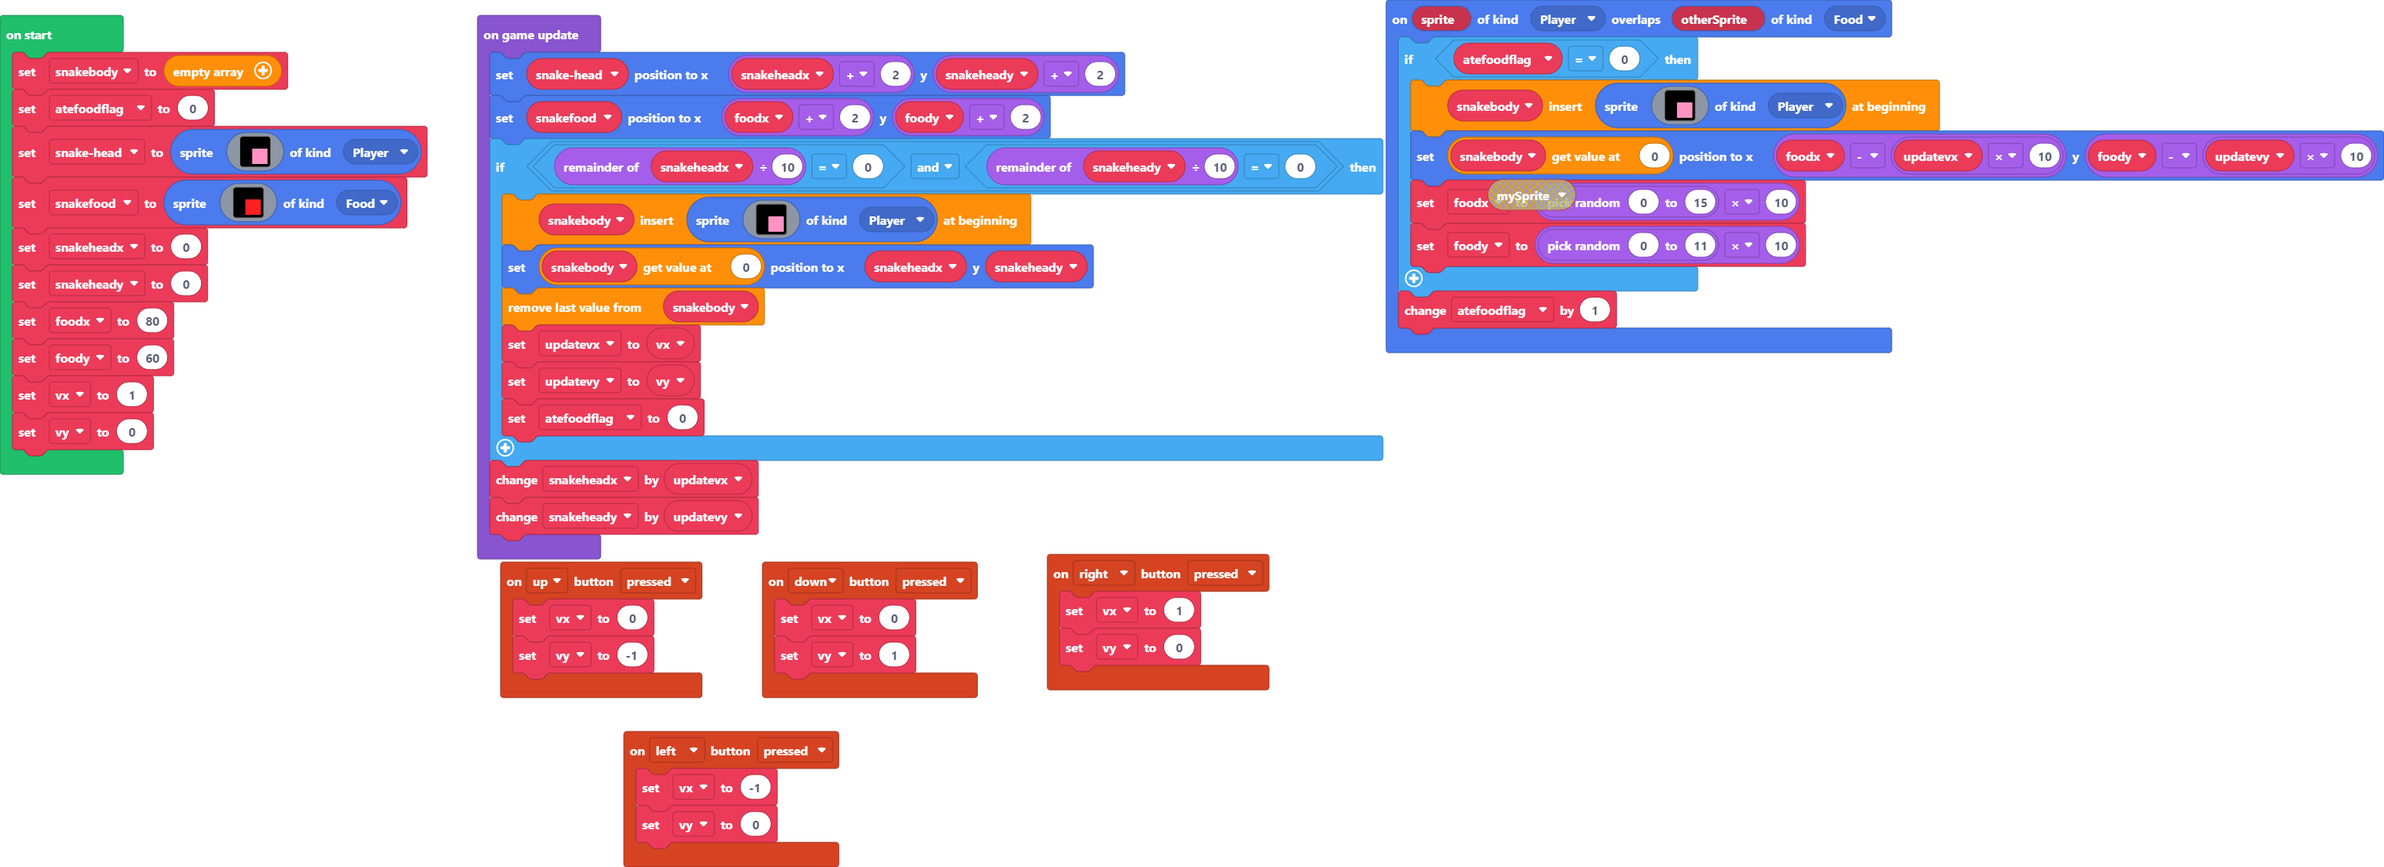
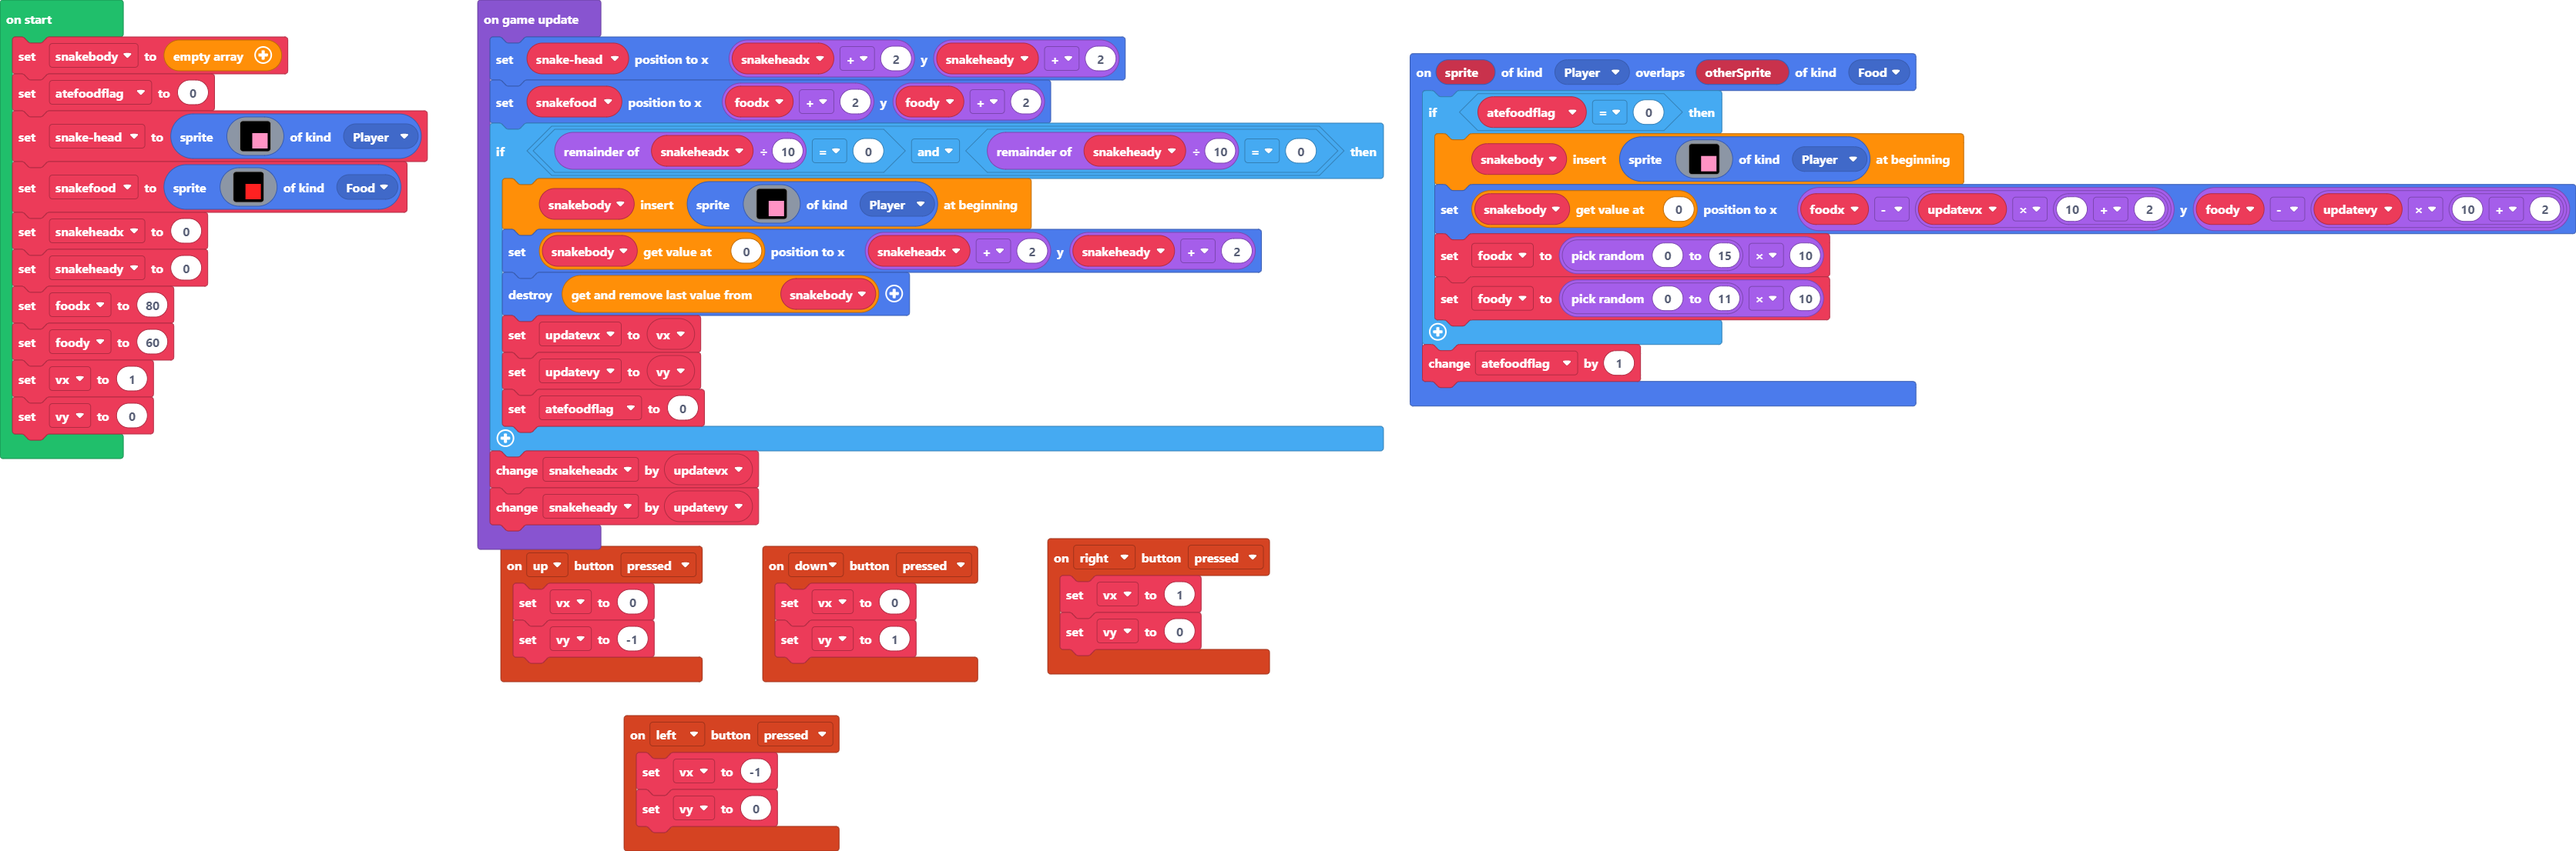
snake body

Changed region(s): [[0.0, 0.0, 1.0, 1.0]]

diff --git a/main.ts b/main.ts
@@ -34,7 +34,7 @@ sprites.onOverlap(SpriteKind.Player, SpriteKind.Food, function (sprite, otherSpr
             . . . . . . 3 3 3 3 3 3 3 3 3 3 
             . . . . . . 3 3 3 3 3 3 3 3 3 3 
             `, SpriteKind.Player))
-        snakebody[0].setPosition(foodx - updatevx * 10, foody - updatevy * 10)
+        snakebody[0].setPosition(foodx - updatevx * (10 + 2), foody - updatevy * (10 + 2))
         foodx = randint(0, 15) * 10
         foody = randint(0, 11) * 10
     }
@@ -114,8 +114,8 @@ game.onUpdate(function () {
             . . . . . . 3 3 3 3 3 3 3 3 3 3 
             . . . . . . 3 3 3 3 3 3 3 3 3 3 
             `, SpriteKind.Player))
-        snakebody[0].setPosition(snakeheadx, snakeheady)
-        snakebody.pop()
+        snakebody[0].setPosition(snakeheadx + 2, snakeheady + 2)
+        snakebody.pop().destroy()
         updatevx = vx
         updatevy = vy
         atefoodflag = 0
